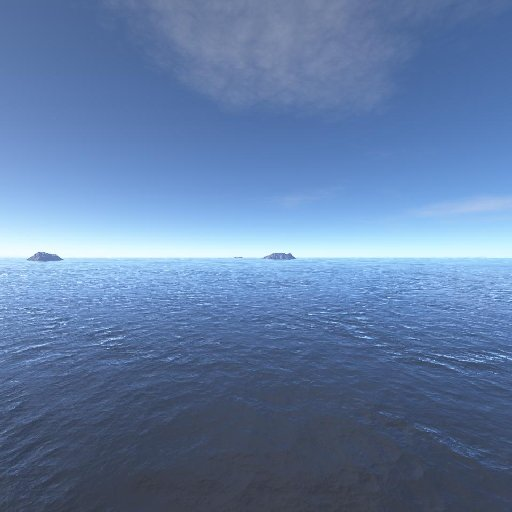
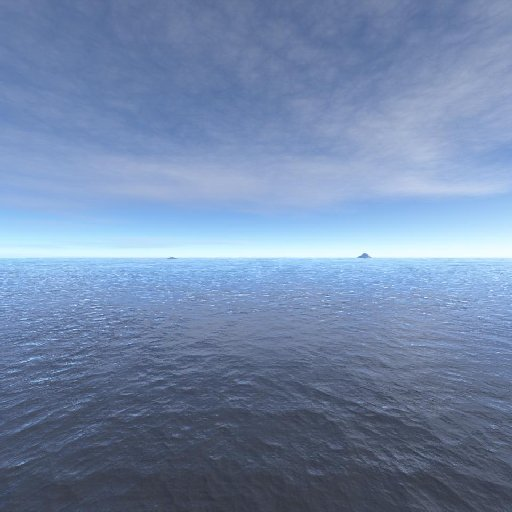
123

diff --git a/src/World.ts b/src/World.ts
@@ -132,13 +132,13 @@ class World {
         this.npcList.push(npc);
         this.renderList.push(npc);
 
-        this.handleEvent(player);
+        this.handleEvent();
         resolve(player);
       });
     });
   };
 
-  handleEvent = (player: Player) => {
+  handleEvent = () => {
     const instructions = document.getElementById("instructions")!;
     const blocker = document.getElementById("blocker")!;
 

diff --git a/src/Sky.ts b/src/Sky.ts
@@ -6,8 +6,8 @@ const initSky = (scene: Scene) => {
     "./img/skybox/left.jpg",
     "./img/skybox/up.jpg",
     "./img/skybox/down.jpg",
-    "./img/skybox/back.jpg",
     "./img/skybox/front.jpg",
+    "./img/skybox/back.jpg",
   ];
   const loader = new CubeTextureLoader();
   scene.background = loader.load(images);
